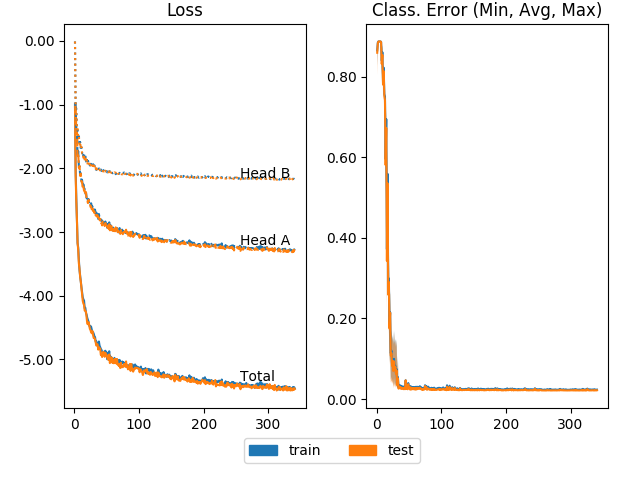
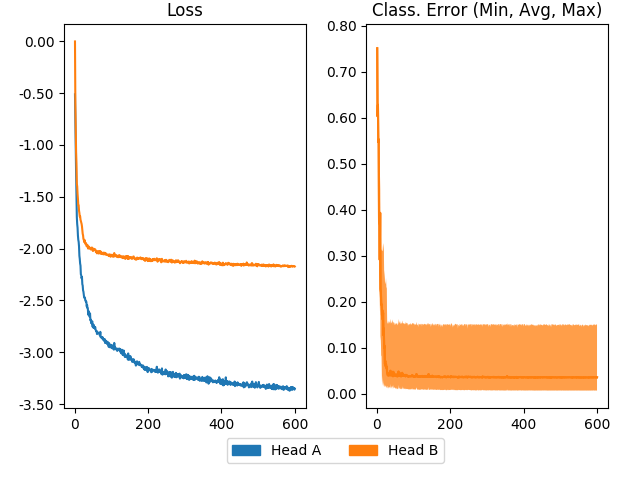
pre-merge commit.

diff --git a/README.md b/README.md
@@ -30,8 +30,17 @@ Running this code will print to console and produce a dynamically updated learni
 
 ![Alt text](Figure_1.png?raw=true "Learning Curve")
 
+For this MNIST example, the (K=10) subheads' classification error rates were:
+Subhead 1 Classification error = 0.0076
+Subhead 2 Classification error = 0.0076
+Subhead 3 Classification error = 0.0076
+Subhead 4 Classification error = 0.1500
+Subhead 5 Classification error = 0.0076
+
+This results in a mean error rate of 0.0360.
+
 ## Notes
 The MNIST accuracy reported in https://arxiv.org/abs/1807.06653 suggests that all 5 subheads converge to ~99% accuracy.
 My run-to-run variability suggests that while at least one head always converges to very high accuracy, some heads may
-not attain ~99%. Often I see 2-4 subheads at ~99% with the other subheads at ~88% accuracy. I have not yet run the code
+not attain ~99%. I often see 2-4 subheads at ~99% with the other subheads at ~88% accuracy. I have not yet run the code
 for the full 3200 epochs, so perhaps that resolves it.
